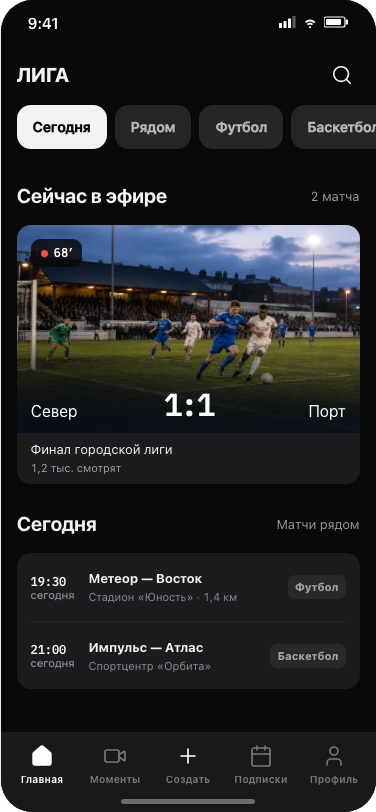
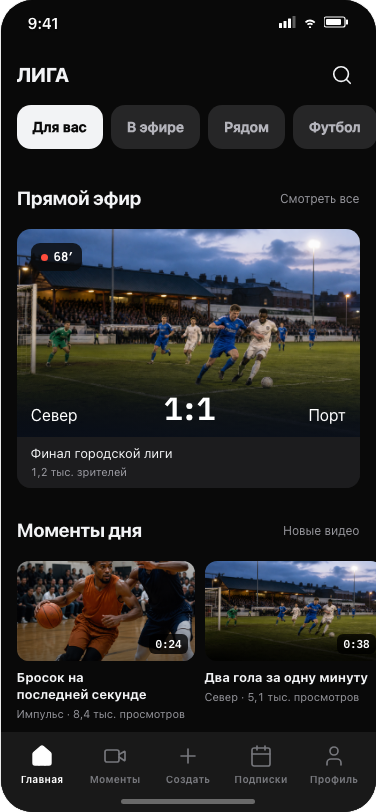
Refine Liga photo and video experience

diff --git a/platform/concepts/liga/styles.css b/platform/concepts/liga/styles.css
@@ -3042,7 +3042,8 @@
   color: inherit !important;
 }
 .lx-screen .lx-tabs .ico .lx-icon { width: 24px !important; height: 24px !important; }
-.lx-screen .lx-tabs .lx-create .lx-icon { color: #fff !important; }
+.lx-screen .lx-tabs .lx-create .lx-icon { color: inherit !important; }
+.lx-screen .lx-tabs .tab.is-on .lx-create .lx-icon { color: #fff !important; }
 .lx-screen .lx-tabs .tab-label { font-size: 10px !important; line-height: 12px !important; }
 
 /* Filter chips are one component: identical hit area, radius and baseline. */
@@ -3406,3 +3407,173 @@
   padding-top: 17px !important;
   border-top: 1px solid rgba(255,255,255,.07) !important;
 }
+
+/* Photo & Video product pass: content first, match utilities second. */
+.lx-video-home,
+.lx-video-subs,
+.lx-create-video,
+.lx-video-profile {
+  padding-bottom: 34px !important;
+}
+.lx-video-home .lx-section,
+.lx-video-subs .lx-section,
+.lx-video-profile .lx-section {
+  margin-top: 20px !important;
+  margin-bottom: 9px !important;
+}
+.lx-video-home .lx-section h2,
+.lx-video-subs .lx-section h2,
+.lx-video-profile .lx-section h2 {
+  font-size: 19px !important;
+  line-height: 23px !important;
+  font-weight: 720 !important;
+  letter-spacing: -.025em !important;
+}
+.lx-video-home .lx-section > span,
+.lx-video-subs .lx-section > span,
+.lx-video-profile .lx-section > span {
+  min-height: 44px !important;
+  color: rgba(235,235,245,.62) !important;
+  font-size: 12px !important;
+}
+
+.lx-video-rail {
+  display: flex;
+  gap: 10px;
+  margin: 0 -16px;
+  padding: 0 16px 2px;
+  overflow-x: auto;
+  scrollbar-width: none;
+}
+.lx-mini-video { width: 178px; flex: 0 0 178px; }
+.lx-mini-cover,
+.lx-sub-video-cover,
+.lx-profile-thumb {
+  position: relative;
+  overflow: hidden;
+  background-position: center;
+  background-size: cover;
+}
+.lx-mini-cover { height: 100px; border-radius: 12px; }
+.lx-mini-cover.basketball,
+.lx-sub-video-cover.basketball,
+.lx-profile-thumb.basketball { background-image: url("assets/media/basketball-clip.png"); }
+.lx-mini-cover.football,
+.lx-sub-video-cover.football,
+.lx-profile-thumb.football { background-image: url("assets/media/football-match.png"); }
+.lx-mini-cover.volleyball,
+.lx-sub-video-cover.volleyball,
+.lx-profile-thumb.volleyball { background-image: url("assets/media/volleyball-team.png"); }
+.lx-mini-cover::after,
+.lx-sub-video-cover::after,
+.lx-profile-thumb::after {
+  content: "";
+  position: absolute;
+  inset: 45% 0 0;
+  background: linear-gradient(transparent, rgba(0,0,0,.48));
+}
+.lx-mini-cover span,
+.lx-profile-thumb span,
+.lx-duration {
+  position: absolute;
+  z-index: 1;
+  right: 7px;
+  bottom: 7px;
+  padding: 3px 6px;
+  border-radius: 6px;
+  background: rgba(0,0,0,.78);
+  color: #fff;
+  font: 650 11px/14px "IBM Plex Mono", monospace;
+}
+.lx-mini-video > strong,
+.lx-mini-video > p { display: block; }
+.lx-mini-video > strong {
+  margin-top: 8px;
+  font-size: 13px;
+  line-height: 17px;
+  font-weight: 680;
+}
+.lx-mini-video > p {
+  margin: 3px 0 0;
+  color: var(--lx-secondary);
+  font-size: 11px;
+  line-height: 15px;
+}
+.lx-video-list {
+  border-radius: 14px;
+  background: var(--lx-surface);
+  overflow: hidden;
+}
+.lx-upcoming {
+  min-height: 66px;
+  padding: 9px 12px;
+  display: grid;
+  grid-template-columns: 50px minmax(0,1fr) 20px;
+  align-items: center;
+  gap: 10px;
+}
+.lx-upcoming + .lx-upcoming { border-top: 1px solid rgba(255,255,255,.07); }
+.lx-upcoming time { color: var(--lx-label); font: 650 13px/16px "IBM Plex Mono", monospace; }
+.lx-upcoming time span { display: block; margin-top: 2px; color: var(--lx-tertiary); font: 450 11px/14px Manrope; }
+.lx-upcoming strong { display: block; font-size: 13px; line-height: 17px; }
+.lx-upcoming p { margin: 2px 0 0; color: var(--lx-secondary); font-size: 11px; line-height: 15px; }
+.lx-upcoming > .lx-icon { width: 17px; color: var(--lx-tertiary); }
+
+/* Creation behaves like a media composer, not a role selector. */
+.lx-create-video { padding: 12px 16px 36px !important; }
+.lx-create-video .lx-create-intro { margin: 10px 0 24px !important; }
+.lx-create-video .lx-create-intro h1 { margin: 0; font-size: 25px; line-height: 30px; font-weight: 720; letter-spacing: -.03em; }
+.lx-create-video .lx-create-intro p { max-width: 340px; margin: 7px 0 0; color: var(--lx-secondary); font-size: 13px; line-height: 18px; }
+.lx-create-actions { display: grid; gap: 10px; }
+.lx-create-actions-cards {
+  margin: 0 !important;
+  padding: 0 !important;
+  border-radius: 0 !important;
+  background: transparent !important;
+}
+.lx-create-row {
+  min-height: 76px;
+  padding: 12px 14px;
+  display: grid;
+  grid-template-columns: 44px minmax(0,1fr) 18px;
+  align-items: center;
+  gap: 12px;
+  border-radius: 16px;
+  background: var(--lx-surface);
+}
+.lx-create-row i { width: 44px; height: 44px; display: grid; place-items: center; border-radius: 13px; background: #29292c; }
+.lx-create-row.is-primary i { background: var(--lx-accent); color: #111; }
+.lx-create-row i .lx-icon { width: 22px; height: 22px; }
+.lx-create-row strong { display: block; font-size: 14px; line-height: 18px; font-weight: 700; }
+.lx-create-row p { margin: 3px 0 0; color: var(--lx-secondary); font-size: 11px; line-height: 15px; }
+.lx-create-row > .lx-icon { width: 17px; color: var(--lx-tertiary); }
+
+/* Subscriptions are channels and their videos; schedule is supporting content. */
+.lx-video-subs { padding: 6px 16px 34px !important; }
+.lx-video-subs .lx-alert { min-height: 68px !important; margin-top: 6px !important; padding: 10px 12px !important; border-radius: 14px !important; }
+.lx-video-subs .lx-alert strong { font-size: 13px !important; line-height: 17px !important; }
+.lx-video-subs .lx-alert p { margin-top: 2px !important; font-size: 11px !important; line-height: 15px !important; }
+.lx-sub-video { margin-top: 12px; }
+.lx-sub-video-cover { height: 184px; border-radius: 14px; }
+.lx-sub-video-cover > b { position: absolute; z-index: 1; left: 50%; bottom: 12px; transform: translateX(-50%); color: #fff; font: 700 27px/30px "IBM Plex Mono", monospace; }
+.lx-sub-video-cover .lx-live { z-index: 2; top: 10px !important; left: 10px !important; }
+.lx-sub-video-meta { min-height: 64px; padding: 10px 2px 0; display: grid; grid-template-columns: 38px minmax(0,1fr) 20px; align-items: start; gap: 10px; }
+.lx-sub-video-meta .lx-crest { width: 38px !important; height: 38px !important; border-radius: 50% !important; background: #29292c !important; color: #fff !important; font-size: 11px !important; }
+.lx-sub-video-meta strong { display: block; font-size: 13px; line-height: 17px; }
+.lx-sub-video-meta p { margin: 3px 0 0; color: var(--lx-secondary); font-size: 11px; line-height: 15px; }
+.lx-sub-video-meta > .lx-icon { width: 17px; color: var(--lx-secondary); }
+
+/* Profile is a compact media library. */
+.lx-video-profile { padding-top: 10px !important; }
+.lx-video-profile .lx-kpis { margin-top: 16px !important; }
+.lx-profile-library { display: grid; grid-template-columns: repeat(2,minmax(0,1fr)); gap: 10px; }
+.lx-profile-library article { min-width: 0; }
+.lx-profile-thumb { height: 94px; border-radius: 12px; }
+.lx-profile-library strong { display: block; margin-top: 7px; font-size: 12px; line-height: 16px; white-space: nowrap; overflow: hidden; text-overflow: ellipsis; }
+.lx-profile-library p { margin: 2px 0 0; color: var(--lx-secondary); font-size: 11px; line-height: 15px; white-space: nowrap; overflow: hidden; text-overflow: ellipsis; }
+.lx-video-profile .lx-profilemenu { margin-top: 20px !important; }
+.lx-video-profile .lx-section > span { min-width: 44px; justify-content: flex-end; }
+
+/* Player content hierarchy: live metadata and channel before match indexing. */
+.lx-watch .lx-protocol-head h2 { font-size: 19px !important; }
+.lx-watch .lx-protocol-row time { padding-top: 7px !important; }

diff --git a/platform/concepts/liga/screens/subscriptions.html b/platform/concepts/liga/screens/subscriptions.html
@@ -1,1 +1,32 @@
-<div class="screen lx-screen" id="scr-subscriptions"><div class="lx-safe"></div><div class="lx-head"><div class="lx-logo">МОИ МАТЧИ<i>/</i></div><div class="lx-head-action" data-toast="Поиск по подпискам открыт" aria-label="Поиск"><svg class="lx-icon"><use href="#i-search"/></svg></div></div><div class="body-scroll lx-subscribe"><div class="lx-eyebrow">Август 2026</div><div class="lx-week"><div class="lx-day"><span>ПН</span><strong>10</strong></div><div class="lx-day"><span>ВТ</span><strong>11</strong></div><div class="lx-day on"><span>СР</span><strong>12</strong></div><div class="lx-day"><span>ЧТ</span><strong>13</strong></div><div class="lx-day"><span>ПТ</span><strong>14</strong></div><div class="lx-day"><span>СБ</span><strong>15</strong></div><div class="lx-day"><span>ВС</span><strong>16</strong></div></div><div class="lx-following"><div class="lx-followteam" data-go="channel"><div class="lx-crest">СФ</div><div><strong>Север</strong><span>в эфире</span></div></div><div class="lx-followteam"><div class="lx-crest" style="background:#7e53cf">ИА</div><div><strong>Импульс</strong><span>завтра</span></div></div><div class="lx-followteam"><div class="lx-crest" style="background:#26805e">МВ</div><div><strong>Метеор</strong><span>суббота</span></div></div></div><div class="lx-alert" data-ask="push|subscriptions|subscriptions"><svg class="lx-icon"><use href="#i-bell"/></svg><div><strong>Напоминать о матчах</strong><p>Только выбранные команды</p></div><div class="lx-toggle"></div></div><div class="perm-hidden lx-fallback" data-show-granted="push" style="margin-top:10px;background:#e8f5cf;color:#3d6420">Напоминания включены.</div><div class="perm-hidden lx-fallback" data-show-denied="push" style="margin-top:10px">Напоминания можно включить позже.</div><div class="lx-section"><h2>Среда, 12 августа</h2><span>2 матча</span></div><div class="lx-agenda"><div class="lx-game" data-go="watch"><time style="color:var(--lx-blue)">LIVE<span>68′</span></time><div><strong>Север — Порт</strong><p>Финал городской лиги</p></div><strong>1:1</strong></div><div class="lx-game"><time>21:00<span>через 2 ч</span></time><div><strong>Импульс — Атлас</strong><p>Молодёжная лига</p></div><svg class="lx-icon"><use href="#i-chevron-right"/></svg></div></div></div><div class="tabbar lx-tabs"><div class="tab" data-go="home"><span class="ico"><svg class="lx-icon"><use href="#i-house"/></svg></span><span class="tab-label">Главная</span></div><div class="tab" data-go="clips"><span class="ico"><svg class="lx-icon"><use href="#i-video"/></svg></span><span class="tab-label">Моменты</span></div><div class="tab" data-go="create"><span class="ico lx-create"><svg class="lx-icon"><use href="#i-plus"/></svg></span><span class="tab-label">Создать</span></div><div class="tab is-on" data-go="subscriptions"><span class="ico"><svg class="lx-icon"><use href="#i-calendar"/></svg></span><span class="tab-label">Подписки</span></div><div class="tab" data-go="profile"><span class="ico"><svg class="lx-icon"><use href="#i-user"/></svg></span><span class="tab-label">Профиль</span></div></div><div class="home-ind"></div></div>
+<div class="screen lx-screen" id="scr-subscriptions">
+  <div class="lx-safe"></div>
+  <div class="lx-head"><div class="lx-logo">Подписки</div><div class="lx-head-action" data-toast="Поиск по подпискам открыт" aria-label="Поиск"><svg class="lx-icon"><use href="#i-search"/></svg></div></div>
+  <div class="body-scroll lx-subscribe lx-video-subs">
+    <div class="lx-alert" data-ask="push|subscriptions|subscriptions"><svg class="lx-icon"><use href="#i-bell"/></svg><div><strong>Не пропускать новые эфиры</strong><p>Только от каналов, на которые вы подписаны</p></div><div class="lx-toggle"></div></div>
+    <div class="perm-hidden lx-fallback" data-show-granted="push" style="margin-top:10px">Напоминания включены.</div>
+    <div class="perm-hidden lx-fallback" data-show-denied="push" style="margin-top:10px">Напоминания можно включить позже.</div>
+
+    <div class="lx-section lx-section-first"><h2>Новое у подписок</h2><span>Смотреть все</span></div>
+    <article class="lx-sub-video" data-go="watch">
+      <div class="lx-sub-video-cover football"><span class="lx-live"><i></i>68′</span><b>1:1</b></div>
+      <div class="lx-sub-video-meta"><div class="lx-crest">СФ</div><div><strong>Север — Порт: финал городской лиги</strong><p>Север · 1,2 тыс. зрителей</p></div><svg class="lx-icon"><use href="#i-ellipsis"/></svg></div>
+    </article>
+    <article class="lx-sub-video" data-go="watch">
+      <div class="lx-sub-video-cover basketball"><span class="lx-duration">0:24</span></div>
+      <div class="lx-sub-video-meta"><div class="lx-crest">ИА</div><div><strong>Бросок, который решил финал</strong><p>Импульс · 8,4 тыс. просмотров</p></div><svg class="lx-icon"><use href="#i-ellipsis"/></svg></div>
+    </article>
+
+    <div class="lx-section"><h2>Ближайшие эфиры</h2><span>Расписание</span></div>
+    <div class="lx-video-list">
+      <div class="lx-upcoming"><time>21:00<span>сегодня</span></time><div><strong>Импульс — Атлас</strong><p>Молодёжная лига · Баскетбол</p></div><svg class="lx-icon"><use href="#i-chevron-right"/></svg></div>
+    </div>
+  </div>
+  <div class="tabbar lx-tabs">
+    <div class="tab" data-go="home"><span class="ico"><svg class="lx-icon"><use href="#i-house"/></svg></span><span class="tab-label">Главная</span></div>
+    <div class="tab" data-go="clips"><span class="ico"><svg class="lx-icon"><use href="#i-video"/></svg></span><span class="tab-label">Моменты</span></div>
+    <div class="tab" data-go="create"><span class="ico lx-create"><svg class="lx-icon"><use href="#i-plus"/></svg></span><span class="tab-label">Создать</span></div>
+    <div class="tab is-on" data-go="subscriptions"><span class="ico"><svg class="lx-icon"><use href="#i-calendar"/></svg></span><span class="tab-label">Подписки</span></div>
+    <div class="tab" data-go="profile"><span class="ico"><svg class="lx-icon"><use href="#i-user"/></svg></span><span class="tab-label">Профиль</span></div>
+  </div>
+  <div class="home-ind"></div>
+</div>

diff --git a/platform/concepts/liga/screens/watch.html b/platform/concepts/liga/screens/watch.html
@@ -1,1 +1,1 @@
-<div class="screen lx-screen lx-watch" id="scr-watch"><div class="perm-hidden lx-fallback" data-show-denied="localnet" style="position:absolute;z-index:9;top:54px;left:12px;right:12px">Телевизор недоступен. Продолжаем на телефоне.</div><div class="perm-hidden lx-fallback" data-show-denied="photoadd" style="position:absolute;z-index:9;top:54px;left:12px;right:12px">Момент сохранён в профиле. Экспортировать его можно позже.</div><div class="lx-player2"><div class="lx-playerbar"><div class="lx-head-action" data-back><svg class="lx-icon"><use href="#i-chevron-left"/></svg></div><div class="lx-head-action" data-ask="localnet|cast|watch"><svg class="lx-icon"><use href="#i-cast"/></svg></div></div><div class="lx-player-play"><span><svg class="lx-icon"><use href="#i-play"/></svg></span></div><div class="lx-player-progress"><i></i></div></div><div class="body-scroll"><div class="lx-scoreboard"><div class="lx-score-top"><span>● LIVE</span><time>67:24</time></div><div class="lx-score-main"><strong>Север</strong><b>1:1</b><strong>Порт</strong></div><div class="lx-score-meta">Городская лига · Финал</div></div><div class="lx-clubrow" data-go="channel"><div class="lx-crest">СФ</div><div><strong>Север. Футбол</strong><p>12,8 тыс. подписчиков</p></div><div class="lx-follow2">Подписаться</div></div><div class="lx-watchtools"><div class="lx-tooltext primary" data-ask="photoadd|watch|watch"><svg class="lx-icon"><use href="#i-bookmark"/></svg><span>Сохранить</span></div><div class="lx-tooltext" data-activate="audio|background"><svg class="lx-icon"><use href="#i-volume-2"/></svg><span>Слушать</span></div><div class="lx-tooltext more" data-activate="domains|deeplink"><svg class="lx-icon"><use href="#i-ellipsis"/></svg></div></div><div class="lx-protocol"><div class="lx-protocol-head"><h2>Протокол матча</h2><span>Обновляется онлайн</span></div><div class="lx-protocol-list"><div class="lx-protocol-row" data-toast="Открываем момент с 51-й минуты"><time>51′</time><div><strong>Гол «Порта»</strong><p>Подача с углового, удар головой</p></div><svg class="lx-icon"><use href="#i-chevron-right"/></svg></div><div class="lx-protocol-row" data-toast="Открываем момент с 38-й минуты"><time>38′</time><div><strong>Замена у «Севера»</strong><p>№17 вместо №8</p></div><svg class="lx-icon"><use href="#i-chevron-right"/></svg></div><div class="lx-protocol-row" data-toast="Открываем момент с 24-й минуты"><time>24′</time><div><strong>Гол «Севера»</strong><p>После углового</p></div><svg class="lx-icon"><use href="#i-chevron-right"/></svg></div></div></div></div><div class="home-ind"></div></div>
+<div class="screen lx-screen lx-watch" id="scr-watch"><div class="perm-hidden lx-fallback" data-show-denied="localnet" style="position:absolute;z-index:9;top:54px;left:12px;right:12px">Телевизор недоступен. Продолжаем на телефоне.</div><div class="perm-hidden lx-fallback" data-show-denied="photoadd" style="position:absolute;z-index:9;top:54px;left:12px;right:12px">Момент сохранён в профиле. Экспортировать его можно позже.</div><div class="lx-player2"><div class="lx-playerbar"><div class="lx-head-action" data-back><svg class="lx-icon"><use href="#i-chevron-left"/></svg></div><div class="lx-head-action" data-ask="localnet|cast|watch"><svg class="lx-icon"><use href="#i-cast"/></svg></div></div><div class="lx-player-play"><span><svg class="lx-icon"><use href="#i-play"/></svg></span></div><div class="lx-player-progress"><i></i></div></div><div class="body-scroll"><div class="lx-scoreboard"><div class="lx-score-top"><span>● LIVE</span><time>67:24</time></div><div class="lx-score-main"><strong>Север</strong><b>1:1</b><strong>Порт</strong></div><div class="lx-score-meta">Городская лига · Финал</div></div><div class="lx-clubrow" data-go="channel"><div class="lx-crest">СФ</div><div><strong>Север. Футбол</strong><p>12,8 тыс. подписчиков</p></div><div class="lx-follow2">Подписаться</div></div><div class="lx-watchtools"><div class="lx-tooltext primary" data-ask="photoadd|watch|watch"><svg class="lx-icon"><use href="#i-bookmark"/></svg><span>Сохранить</span></div><div class="lx-tooltext" data-activate="audio|background"><svg class="lx-icon"><use href="#i-volume-2"/></svg><span>Слушать</span></div><div class="lx-tooltext more" data-activate="domains|deeplink"><svg class="lx-icon"><use href="#i-ellipsis"/></svg></div></div><div class="lx-protocol"><div class="lx-protocol-head"><h2>Моменты матча</h2><span>Обновляются в эфире</span></div><div class="lx-protocol-list"><div class="lx-protocol-row" data-toast="Открываем момент с 51-й минуты"><time>51′</time><div><strong>Гол «Порта»</strong><p>Подача с углового, удар головой</p></div><svg class="lx-icon"><use href="#i-chevron-right"/></svg></div><div class="lx-protocol-row" data-toast="Открываем момент с 38-й минуты"><time>38′</time><div><strong>Замена у «Севера»</strong><p>№17 вместо №8</p></div><svg class="lx-icon"><use href="#i-chevron-right"/></svg></div><div class="lx-protocol-row" data-toast="Открываем момент с 24-й минуты"><time>24′</time><div><strong>Гол «Севера»</strong><p>После углового</p></div><svg class="lx-icon"><use href="#i-chevron-right"/></svg></div></div></div></div><div class="home-ind"></div></div>

diff --git a/platform/concepts/liga/screens/create.html b/platform/concepts/liga/screens/create.html
@@ -1,1 +1,37 @@
-<div class="screen lx-screen" id="scr-create"><div class="lx-safe"></div><div class="lx-head"><div class="lx-logo">Создать</div></div><div class="body-scroll lx-createpage"><div class="perm-hidden lx-fallback" data-show-denied="camera">Камера выключена. Можно вести протокол или загрузить запись.</div><div class="perm-hidden lx-fallback" data-show-denied="mic">Эфир начнётся без звука.</div><div class="perm-hidden lx-fallback" data-show-denied="photo">Медиатека недоступна. Можно начать прямой эфир.</div><div class="lx-create-intro"><div class="lx-eyebrow">Выберите роль</div><h1>Как вы участвуете<br>в матче?</h1><p>Съёмка и протокол работают независимо и синхронизируются во время игры.</p></div><div class="lx-rolegrid refined"><article class="lx-rolecard camera" data-ask="camera+mic|camera|create"><div class="lx-roleicon"><svg class="lx-icon"><use href="#i-video"/></svg></div><h2>Снимаю<br>эфир</h2><p>Видео и звук матча</p><strong>Открыть камеру&nbsp; →</strong></article><article class="lx-rolecard protocol" data-go="publish"><div class="lx-roleicon"><svg class="lx-icon"><use href="#i-menu"/></svg></div><h2>Веду<br>протокол</h2><p>Счёт и события</p><strong>Выбрать матч&nbsp; →</strong></article></div><div class="lx-uploadcell" data-ask="photo|upload|create"><i><svg class="lx-icon"><use href="#i-images"/></svg></i><div><strong>Загрузить запись</strong><p>Матч или готовый момент</p></div><svg class="lx-icon"><use href="#i-chevron-right"/></svg></div></div><div class="tabbar lx-tabs"><div class="tab" data-go="home"><span class="ico"><svg class="lx-icon"><use href="#i-house"/></svg></span><span class="tab-label">Главная</span></div><div class="tab" data-go="clips"><span class="ico"><svg class="lx-icon"><use href="#i-video"/></svg></span><span class="tab-label">Моменты</span></div><div class="tab is-on" data-go="create"><span class="ico lx-create"><svg class="lx-icon"><use href="#i-plus"/></svg></span><span class="tab-label">Создать</span></div><div class="tab" data-go="subscriptions"><span class="ico"><svg class="lx-icon"><use href="#i-calendar"/></svg></span><span class="tab-label">Подписки</span></div><div class="tab" data-go="profile"><span class="ico"><svg class="lx-icon"><use href="#i-user"/></svg></span><span class="tab-label">Профиль</span></div></div><div class="home-ind"></div></div>
+<div class="screen lx-screen" id="scr-create">
+  <div class="lx-safe"></div>
+  <div class="lx-head"><div class="lx-logo">Создать</div></div>
+  <div class="body-scroll lx-createpage lx-create-video">
+    <div class="perm-hidden lx-fallback" data-show-denied="camera">Камера недоступна. Выберите готовое видео из медиатеки.</div>
+    <div class="perm-hidden lx-fallback" data-show-denied="mic">Трансляцию можно начать без звука.</div>
+    <div class="perm-hidden lx-fallback" data-show-denied="photo">Медиатека недоступна. Можно снять новое видео.</div>
+
+    <div class="lx-create-intro"><h1>Добавьте видео</h1><p>Начните прямой эфир, загрузите запись или снимите короткий момент.</p></div>
+
+    <div class="lx-create-actions lx-create-actions-cards">
+      <div class="lx-create-row is-primary" data-ask="camera+mic|camera|create">
+        <i><svg class="lx-icon"><use href="#i-video"/></svg></i>
+        <div><strong>Начать трансляцию</strong><p>Прямой эфир с площадки</p></div>
+        <svg class="lx-icon"><use href="#i-chevron-right"/></svg>
+      </div>
+      <div class="lx-create-row" data-ask="photo|upload|create">
+        <i><svg class="lx-icon"><use href="#i-images"/></svg></i>
+        <div><strong>Загрузить видео</strong><p>Запись матча или готовый момент</p></div>
+        <svg class="lx-icon"><use href="#i-chevron-right"/></svg>
+      </div>
+      <div class="lx-create-row" data-ask="camera+mic|camera|create">
+        <i><svg class="lx-icon"><use href="#i-video"/></svg></i>
+        <div><strong>Снять момент</strong><p>Короткое вертикальное видео</p></div>
+        <svg class="lx-icon"><use href="#i-chevron-right"/></svg>
+      </div>
+    </div>
+  </div>
+  <div class="tabbar lx-tabs">
+    <div class="tab" data-go="home"><span class="ico"><svg class="lx-icon"><use href="#i-house"/></svg></span><span class="tab-label">Главная</span></div>
+    <div class="tab" data-go="clips"><span class="ico"><svg class="lx-icon"><use href="#i-video"/></svg></span><span class="tab-label">Моменты</span></div>
+    <div class="tab is-on" data-go="create"><span class="ico lx-create"><svg class="lx-icon"><use href="#i-plus"/></svg></span><span class="tab-label">Создать</span></div>
+    <div class="tab" data-go="subscriptions"><span class="ico"><svg class="lx-icon"><use href="#i-calendar"/></svg></span><span class="tab-label">Подписки</span></div>
+    <div class="tab" data-go="profile"><span class="ico"><svg class="lx-icon"><use href="#i-user"/></svg></span><span class="tab-label">Профиль</span></div>
+  </div>
+  <div class="home-ind"></div>
+</div>

diff --git a/platform/concepts/liga/screens/home.html b/platform/concepts/liga/screens/home.html
@@ -1,19 +1,21 @@
 <div class="screen lx-screen is-on" id="scr-home">
   <div class="lx-safe"></div>
-  <div class="lx-head lx-home-head">
+  <div class="lx-head">
     <div class="lx-logo">ЛИГА</div>
     <div class="lx-head-action" data-go="search" aria-label="Поиск"><svg class="lx-icon"><use href="#i-search"/></svg></div>
   </div>
-  <div class="body-scroll lx-scroll lx-home-v2">
-    <div class="lx-home-chips">
-      <span class="on">Сегодня</span>
+  <div class="body-scroll lx-scroll lx-home-v2 lx-video-home">
+    <div class="lx-home-chips" aria-label="Разделы каталога">
+      <span class="on">Для вас</span>
+      <span>В эфире</span>
       <span data-ask="location|nearby|home">Рядом</span>
-      <span>Футбол</span><span>Баскетбол</span>
+      <span>Футбол</span>
+      <span>Баскетбол</span>
     </div>
-    <div class="perm-hidden lx-fallback" data-show-denied="location">Показываем матчи в Алматы. Город можно изменить в настройках.</div>
+    <div class="perm-hidden lx-fallback" data-show-denied="location">Показываем видео из Алматы. Город можно изменить в настройках.</div>
     <div class="perm-hidden lx-fallback" data-show-denied="tracking">Реклама останется, но не будет учитывать ваши интересы.</div>
 
-    <div class="lx-section lx-section-first"><h2>Сейчас в эфире</h2><span>2 матча</span></div>
+    <div class="lx-section lx-section-first"><h2>Прямой эфир</h2><span>Смотреть все</span></div>
     <article class="lx-matchday" data-go="watch">
       <div class="lx-matchday-media">
         <div class="lx-live"><i></i>68′</div>
@@ -23,13 +25,32 @@
           <div class="lx-matchday-team right"><strong>Порт</strong></div>
         </div>
       </div>
-      <div class="lx-matchday-foot"><div><strong>Финал городской лиги</strong><span>1,2 тыс. смотрят</span></div><svg class="lx-icon"><use href="#i-chevron-right"/></svg></div>
+      <div class="lx-matchday-foot"><div><strong>Финал городской лиги</strong><span>1,2 тыс. зрителей</span></div><svg class="lx-icon"><use href="#i-chevron-right"/></svg></div>
     </article>
 
-    <div class="lx-section"><h2>Сегодня</h2><span data-ask="location|nearby|home">Матчи рядом</span></div>
-    <div class="lx-agenda">
-      <div class="lx-game" data-go="channel"><time>19:30<span>сегодня</span></time><div><strong>Метеор — Восток</strong><p>Стадион «Юность» · 1,4 км</p></div><div class="lx-game-tag">Футбол</div></div>
-      <div class="lx-game"><time>21:00<span>сегодня</span></time><div><strong>Импульс — Атлас</strong><p>Спортцентр «Орбита»</p></div><div class="lx-game-tag">Баскетбол</div></div>
+    <div class="lx-section"><h2>Моменты дня</h2><span>Новые видео</span></div>
+    <div class="lx-video-rail">
+      <article class="lx-mini-video" data-go="watch">
+        <div class="lx-mini-cover basketball"><span>0:24</span></div>
+        <strong>Бросок на последней секунде</strong>
+        <p>Импульс · 8,4 тыс. просмотров</p>
+      </article>
+      <article class="lx-mini-video" data-go="watch">
+        <div class="lx-mini-cover football"><span>0:38</span></div>
+        <strong>Два гола за одну минуту</strong>
+        <p>Север · 5,1 тыс. просмотров</p>
+      </article>
+      <article class="lx-mini-video" data-go="watch">
+        <div class="lx-mini-cover volleyball"><span>1:12</span></div>
+        <strong>Розыгрыш, который изменил матч</strong>
+        <p>Метеор · 2,7 тыс. просмотров</p>
+      </article>
+    </div>
+
+    <div class="lx-section"><h2>Скоро в эфире</h2><span data-ask="location|nearby|home">Рядом с вами</span></div>
+    <div class="lx-video-list">
+      <div class="lx-upcoming" data-go="channel"><time>19:30<span>сегодня</span></time><div><strong>Метеор — Восток</strong><p>Кубок города · Футбол</p></div><svg class="lx-icon"><use href="#i-chevron-right"/></svg></div>
+      <div class="lx-upcoming"><time>21:00<span>сегодня</span></time><div><strong>Импульс — Атлас</strong><p>Молодёжная лига · Баскетбол</p></div><svg class="lx-icon"><use href="#i-chevron-right"/></svg></div>
     </div>
   </div>
   <div class="tabbar lx-tabs">

diff --git a/platform/concepts/liga/screens/profile.html b/platform/concepts/liga/screens/profile.html
@@ -1,43 +1,27 @@
 <div class="screen lx-screen" id="scr-profile">
   <div class="lx-safe"></div>
-  <div class="body-scroll lx-profile lx-profile-v2">
+  <div class="body-scroll lx-profile lx-profile-v2 lx-video-profile">
     <header class="lx-profile-header">
       <div class="lx-avatar2">АЯ</div>
-      <div class="lx-profile-identity">
-        <h1>Алексей Яров</h1>
-        <p>@yarov · Алматы</p>
-      </div>
-      <div class="lx-head-action" data-toast="Настройки открыты" aria-label="Настройки">
-        <svg class="lx-icon"><use href="#i-settings"/></svg>
-      </div>
+      <div class="lx-profile-identity"><h1>Алексей Яров</h1><p>@yarov · Алматы</p></div>
+      <div class="lx-head-action" data-toast="Настройки открыты" aria-label="Настройки"><svg class="lx-icon"><use href="#i-settings"/></svg></div>
     </header>
 
-    <div class="lx-profile-tags">
-      <span>Организатор</span><span>Север</span>
-    </div>
-
     <section class="lx-kpis" aria-label="Статистика профиля">
-      <div class="lx-kpi"><strong>18</strong><span>трансляций</span></div>
+      <div class="lx-kpi"><strong>18</strong><span>видео</span></div>
       <div class="lx-kpi"><strong>46</strong><span>моментов</span></div>
-      <div class="lx-kpi"><strong>3</strong><span>команды</span></div>
+      <div class="lx-kpi"><strong>3</strong><span>канала</span></div>
     </section>
 
-    <section class="lx-profilemenu">
-      <div class="lx-toolrow" data-go="saved">
-        <i><svg class="lx-icon"><use href="#i-video"/></svg></i>
-        <div><strong>Мои трансляции</strong><p>Записи проведённых матчей</p></div>
-        <svg class="lx-icon"><use href="#i-chevron-right"/></svg>
-      </div>
-      <div class="lx-toolrow" data-go="moments">
-        <i><svg class="lx-icon"><use href="#i-bookmark"/></svg></i>
-        <div><strong>Сохранённые моменты</strong><p>Клипы, которые вы оставили себе</p></div>
-        <svg class="lx-icon"><use href="#i-chevron-right"/></svg>
-      </div>
-      <div class="lx-toolrow" data-go="teams">
-        <i><svg class="lx-icon"><use href="#i-users"/></svg></i>
-        <div><strong>Команды и роли</strong><p>Участие и права в командах</p></div>
-        <svg class="lx-icon"><use href="#i-chevron-right"/></svg>
-      </div>
+    <div class="lx-section lx-section-first"><h2>Мои видео</h2><span data-go="saved">Все</span></div>
+    <div class="lx-profile-library">
+      <article data-go="saved"><div class="lx-profile-thumb football"><span>42:18</span></div><strong>Север — Порт</strong><p>Сегодня · доступно только вам</p></article>
+      <article data-go="moments"><div class="lx-profile-thumb basketball"><span>0:24</span></div><strong>Решающий бросок</strong><p>Момент · 1,8 тыс. просмотров</p></article>
+    </div>
+
+    <section class="lx-profilemenu" aria-label="Библиотека и управление">
+      <div class="lx-toolrow" data-go="moments"><i><svg class="lx-icon"><use href="#i-bookmark"/></svg></i><div><strong>Сохранённое</strong><p>Видео и моменты, которые вы отложили</p></div><svg class="lx-icon"><use href="#i-chevron-right"/></svg></div>
+      <div class="lx-toolrow" data-go="teams"><i><svg class="lx-icon"><use href="#i-users"/></svg></i><div><strong>Каналы и роли</strong><p>Команды, доступы и публикации</p></div><svg class="lx-icon"><use href="#i-chevron-right"/></svg></div>
     </section>
   </div>
   <div class="tabbar lx-tabs">

diff --git a/platform/concepts/liga/screens/clips.html b/platform/concepts/liga/screens/clips.html
@@ -8,8 +8,8 @@
   <div class="lx-clipcopy">
     <div class="lx-clipclub"><i>ИА</i><strong>Импульс · U18</strong><button>Подписаться</button></div>
     <h1>Бросок, который решил финал</h1>
-    <p>Победный мяч за 0,8 секунды до сирены</p>
-    <div class="lx-clipaudio"><svg class="lx-icon"><use href="#i-volume-2"/></svg><span>Звук матча</span></div>
+    <p>Победный мяч за 0,8 секунды до сирены · полный матч в канале</p>
+    <div class="lx-clipaudio"><svg class="lx-icon"><use href="#i-volume-2"/></svg><span>Оригинальный звук матча</span></div>
   </div>
   <div class="lx-sideacts">
     <div class="lx-sideact"><span><svg class="lx-icon"><use href="#i-heart"/></svg></span><b>8,4 тыс.</b></div>
